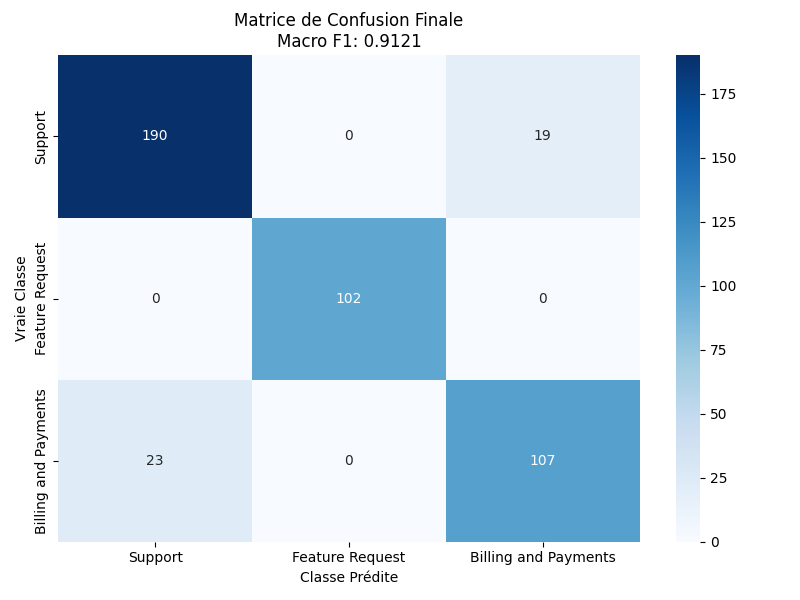
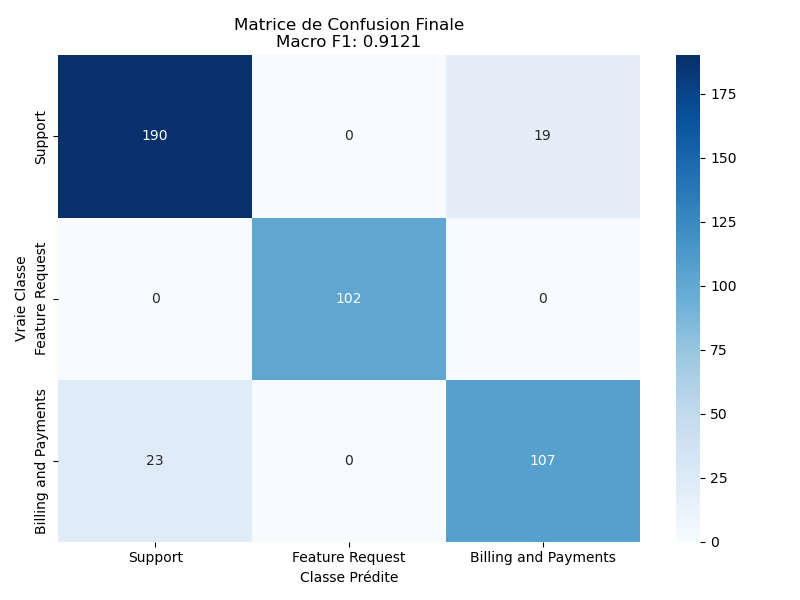
ajout fichiers manquants

Changed region(s): [[0.2812, 0.0, 0.5938, 0.09]]

diff --git a/evaluate.py b/evaluate.py
@@ -1,5 +1,7 @@
 import os
-
+import random
+import torch
+import numpy as np
 
 os.environ["HF_HOME"] = "./hf_cache"
 os.environ["HF_HUB_DISABLE_TOKEN"] = "1"
@@ -7,14 +9,16 @@ os.environ["TOKENIZERS_PARALLELISM"] = "false"
 
 import json
 import yaml
-import torch
+import argparse
 import pandas as pd
-import numpy as np
 import matplotlib.pyplot as plt
 import seaborn as sns
 from sklearn.metrics import f1_score, accuracy_score, classification_report, confusion_matrix
 from transformers import DistilBertTokenizerFast, DistilBertForSequenceClassification
-
+SEED = 42
+random.seed(SEED)
+np.random.seed(SEED)
+torch.manual_seed(SEED)
 # Configuration HF
 os.environ["HF_HOME"] = "./hf_cache"
 os.environ["HF_HUB_DISABLE_TOKEN"] = "1"
@@ -22,28 +26,40 @@ os.environ["HF_HUB_DISABLE_TOKEN"] = "1"
 from src.data import apply_cleaning, LABEL_MAPPING, ID2LABEL
 
 def main():
+    # 0. Gestion des arguments de la ligne de commande
+    parser = argparse.ArgumentParser(description="Évaluation du modèle de classification de tickets.")
+    parser.add_argument("--checkpoint", type=str, default="./checkpoints/best", help="Chemin du dossier ou du fichier du checkpoint à évaluer.")
+    args = parser.parse_args()
+
     # 1. Config et Device
     with open("configs/default.yaml", "r") as f:
         config = yaml.safe_load(f)
     DEVICE = torch.device("cuda" if torch.cuda.is_available() else "mps" if torch.backends.mps.is_available() else "cpu")
 
-    # 2. Gestion et sélection du checkpoint (Dossier principal vs Dossier de secours)
-    PRIMARY_PATH = "./checkpoints/best"
-    FALLBACK_PATH = "./checkpoints/github"
-    MODEL_PATH = PRIMARY_PATH
+    # 2. Sélection et validation du chemin du checkpoint
+    checkpoint_path = args.checkpoint
+    
+    # Si le chemin cible un fichier (ex: best.pt ou model.safetensors), on extrait son dossier parent
+    if os.path.isfile(checkpoint_path):
+        checkpoint_dir = os.path.dirname(checkpoint_path)
+    else:
+        checkpoint_dir = checkpoint_path
 
-    # Vérification de l'existence du fichier de poids dans le dossier principal
-    if not os.path.exists(os.path.join(PRIMARY_PATH, "model.safetensors")):
-        if os.path.exists(os.path.join(FALLBACK_PATH, "model.safetensors")):
+    # Dossier de secours si le dossier spécifié n'existe pas ou ne contient pas les poids
+    FALLBACK_PATH = "./checkpoint"
+    MODEL_PATH = checkpoint_dir
+
+    if not os.path.exists(os.path.join(MODEL_PATH, "model.safetensors")):
+        if MODEL_PATH != FALLBACK_PATH and os.path.exists(os.path.join(FALLBACK_PATH, "model.safetensors")):
             MODEL_PATH = FALLBACK_PATH
-            print(f"⚠️ Aucun entraînement trouvé dans {PRIMARY_PATH}.")
+            print(f"⚠️ Aucun fichier 'model.safetensors' trouvé dans {checkpoint_dir}.")
             print(f"🔄 Bascule automatique sur votre checkpoint de sauvegarde : {MODEL_PATH}")
         else:
-            print(f"❌ Erreur: Aucun fichier 'model.safetensors' trouvé dans {PRIMARY_PATH} ni dans {FALLBACK_PATH}.")
-            print("Veuillez lancer l'entraînement ('python train.py') ou placer vos fichiers dans le dossier './checkpoint/'.")
+            print(f"❌ Erreur: Aucun fichier 'model.safetensors' trouvé dans {MODEL_PATH}.")
+            print("Veuillez lancer l'entraînement ('python train.py') ou vérifier vos fichiers de checkpoint.")
             return
     else:
-        print(f"🧠 Chargement du modèle depuis l'entraînement récent : {MODEL_PATH}")
+        print(f"🧠 Chargement du modèle depuis : {MODEL_PATH}")
 
     try:
         # Chargement du tokenizer (local si disponible, sinon distant/cache avec le nom de base)

diff --git a/train.py b/train.py
@@ -9,6 +9,10 @@ import yaml
 import torch
 import random
 import numpy as np
+import argparse
+parser = argparse.ArgumentParser()
+parser.add_argument("--config", default="configs/default.yaml")
+args = parser.parse_args()
 import pandas as pd
 from sklearn.utils.class_weight import compute_class_weight
 from transformers import (
@@ -24,7 +28,7 @@ from src.utils import compute_metrics
 
 def main():
     # 1. Chargement de la configuration
-    with open("configs/default.yaml", "r") as f:
+    with open(args.config, "r") as f:
         config = yaml.safe_load(f)
 
     SEED = config['training']['seed']